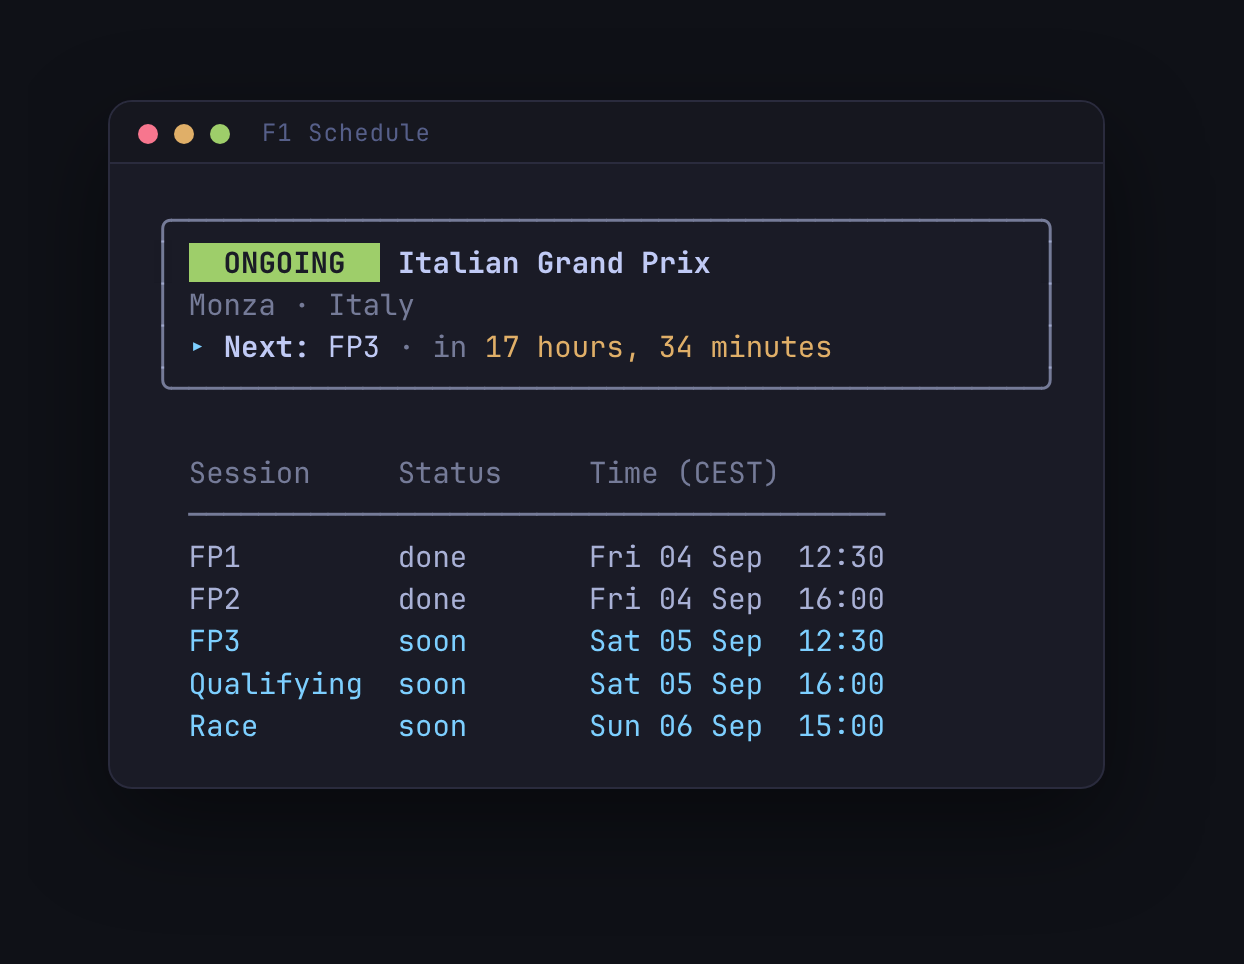
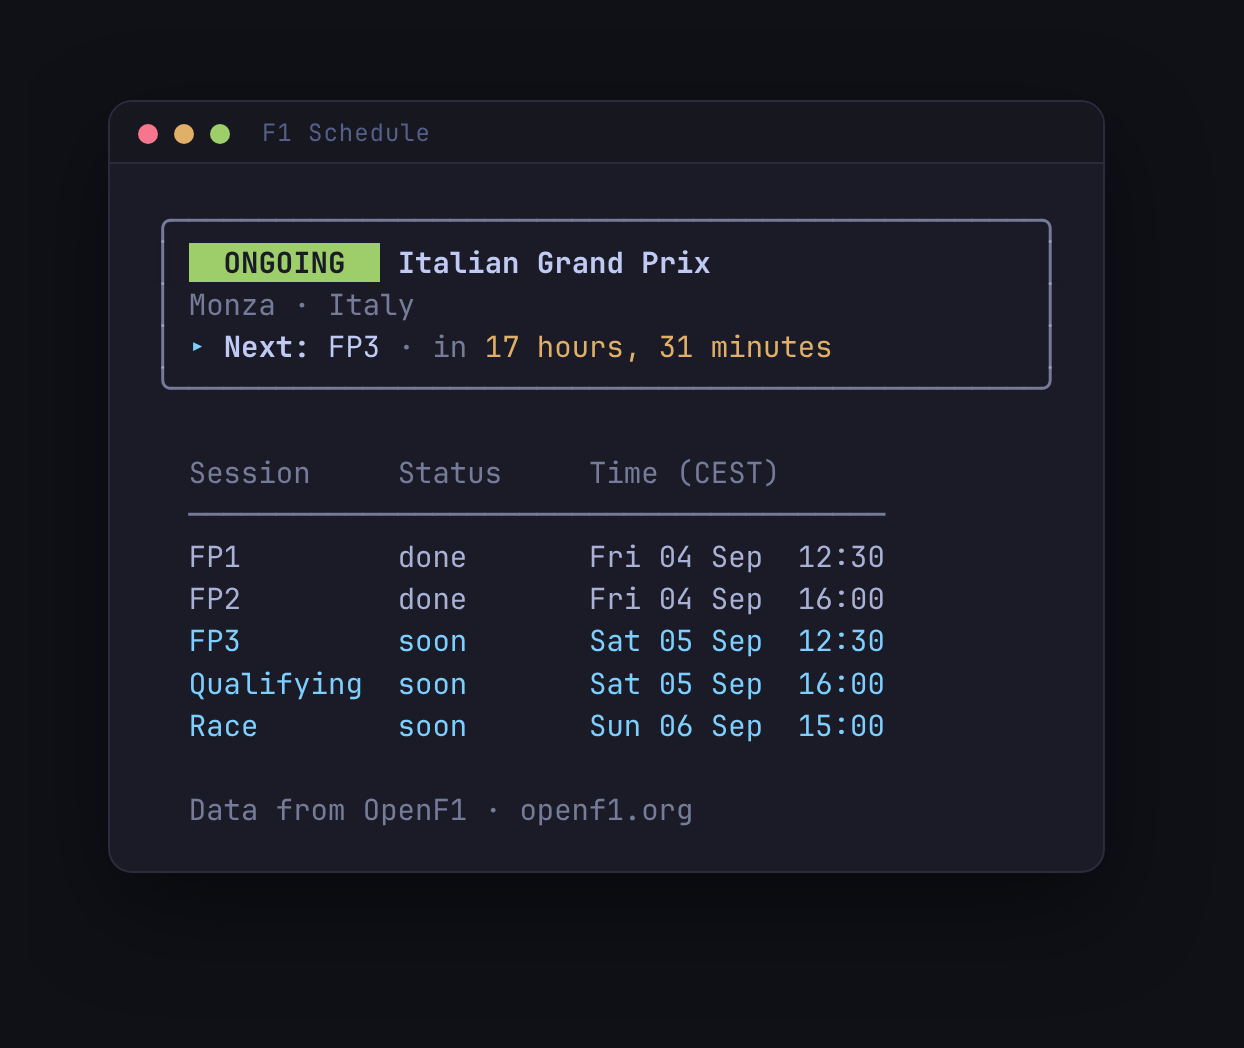
Credit OpenF1 as the data provider
Name OpenF1 in the README and at the bottom of the CLI output, and note
Grok as the workhorse on the implementation.

Changed region(s): [[0.1527, 0.4357, 0.7331, 0.778], [0.1222, 0.2178, 0.8553, 0.4046], [0.0916, 0.0934, 0.8859, 0.1556]]

diff --git a/internal/display/display.go b/internal/display/display.go
@@ -28,6 +28,7 @@ func (r *Renderer) Weekend(weekend *schedule.Weekend, now time.Time, circuitTZ *
 
 	r.printHeader(weekend, now)
 	r.printTable(weekend, circuitTZ, sameZone, localZone, circuitZone)
+	r.printCredit()
 }
 
 func (r *Renderer) printHeader(weekend *schedule.Weekend, now time.Time) {
@@ -86,6 +87,11 @@ func (r *Renderer) printHeader(weekend *schedule.Weekend, now time.Time) {
 
 	r.printBox(width, inner)
 	fmt.Fprintln(r.out)
+}
+
+func (r *Renderer) printCredit() {
+	fmt.Fprintln(r.out)
+	fmt.Fprintln(r.out, r.term.Dim("  Data from OpenF1 · openf1.org"))
 }
 
 func (r *Renderer) printTable(

diff --git a/internal/display/display_test.go b/internal/display/display_test.go
@@ -78,6 +78,9 @@ func TestWeekendShowsCachedAndLiveSession(t *testing.T) {
 	if strings.Contains(out, "STALE CACHE") {
 		t.Fatalf("did not expect a stale warning for a same-weekend cache:\n%s", out)
 	}
+	if !strings.Contains(out, "openf1.org") {
+		t.Fatalf("expected OpenF1 credit in:\n%s", out)
+	}
 }
 
 func TestWeekendShowsStaleCacheWarning(t *testing.T) {

diff --git a/README.md b/README.md
@@ -25,4 +25,10 @@ go build
 
 ## During a live session
 
-The schedule comes from [OpenF1](https://openf1.org/). While a session is running, unauthenticated access is locked. After a successful run, the season timetable is saved to `~/.cache/f1schedule/schedule.json`. The next time the API is locked, the app uses that cache, marks the output as cached, and warns if the file is from before this race weekend.
+While a session is running, OpenF1 locks unauthenticated access. After a successful run, the season timetable is saved to `~/.cache/f1schedule/schedule.json`. The next time the API is locked, the app uses that cache, marks the output as cached, and warns if the file is from before this race weekend.
+
+## Credits
+
+Session times come from [OpenF1](https://openf1.org/). They publish Formula 1 schedule and timing data as an open API — this CLI is only as useful as that work.
+
+Built with [Grok](https://x.ai), the workhorse on the implementation, alongside Allan.
